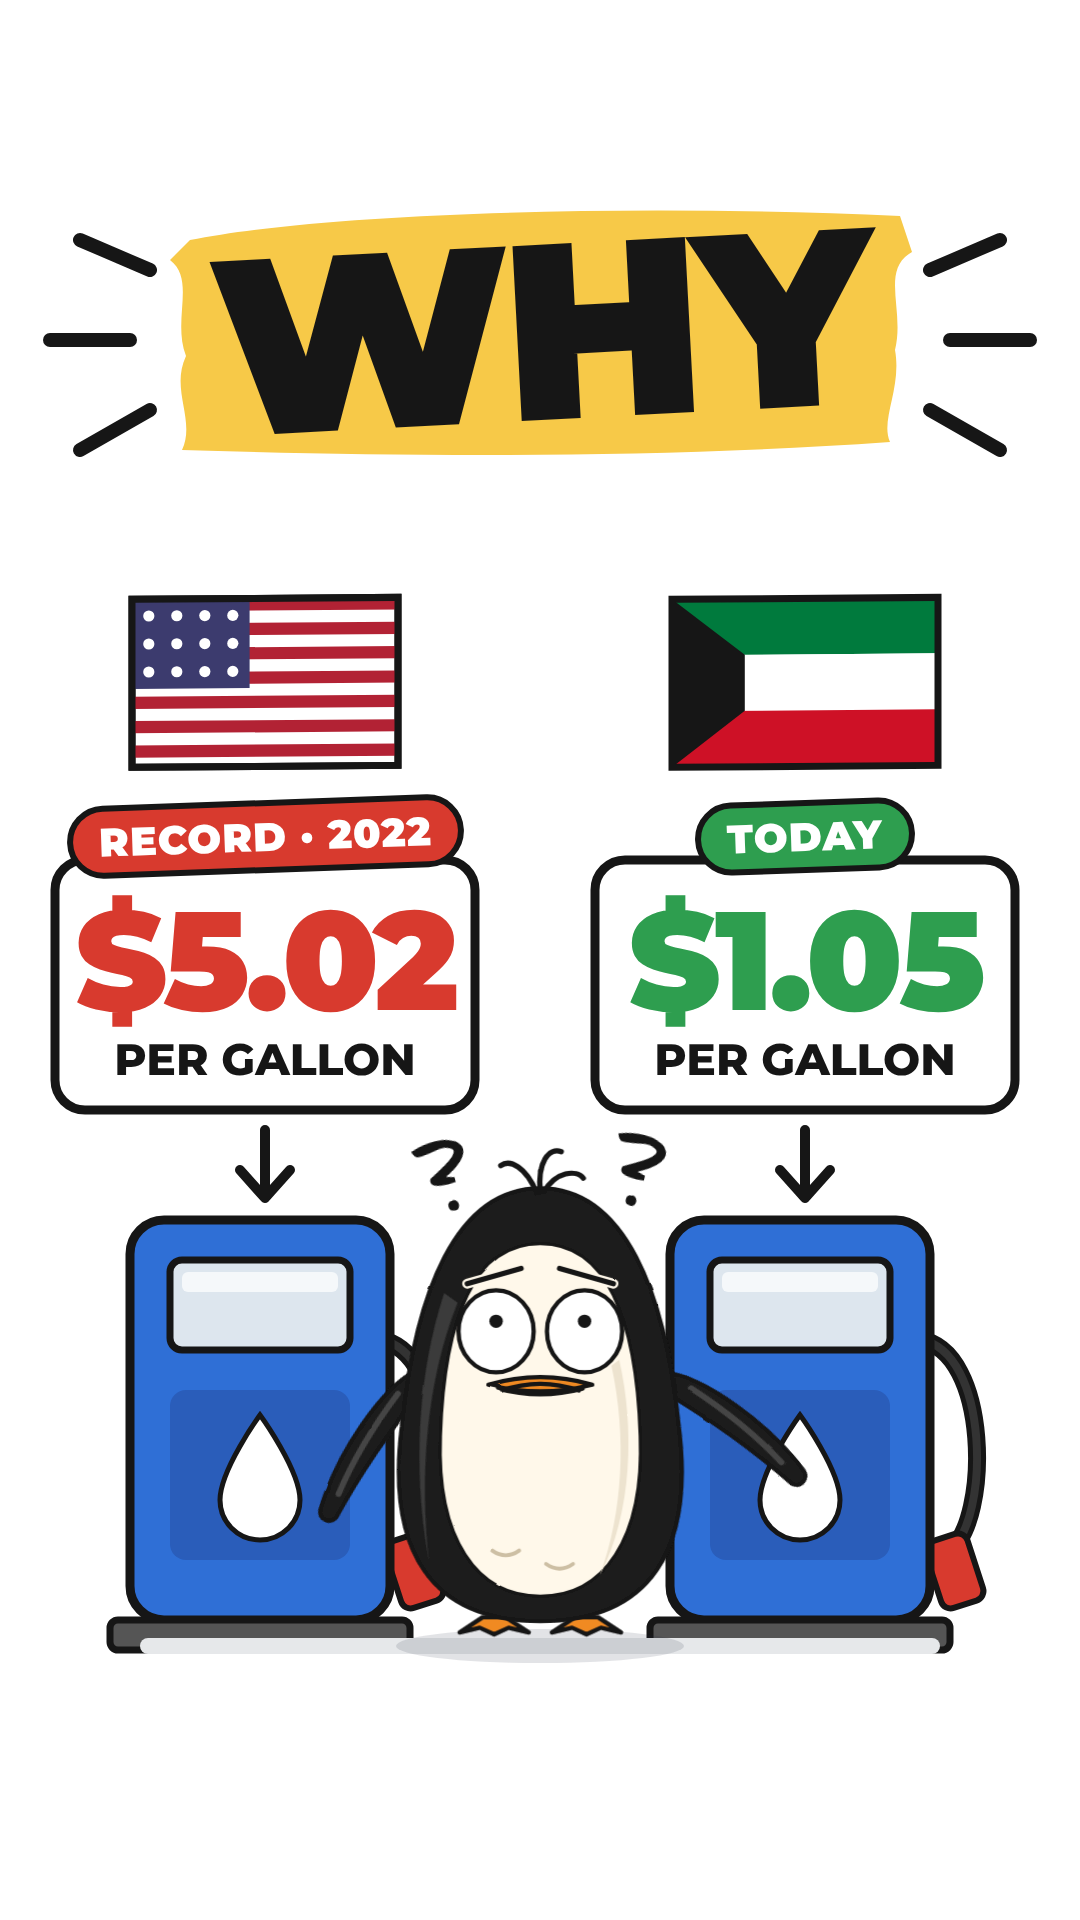
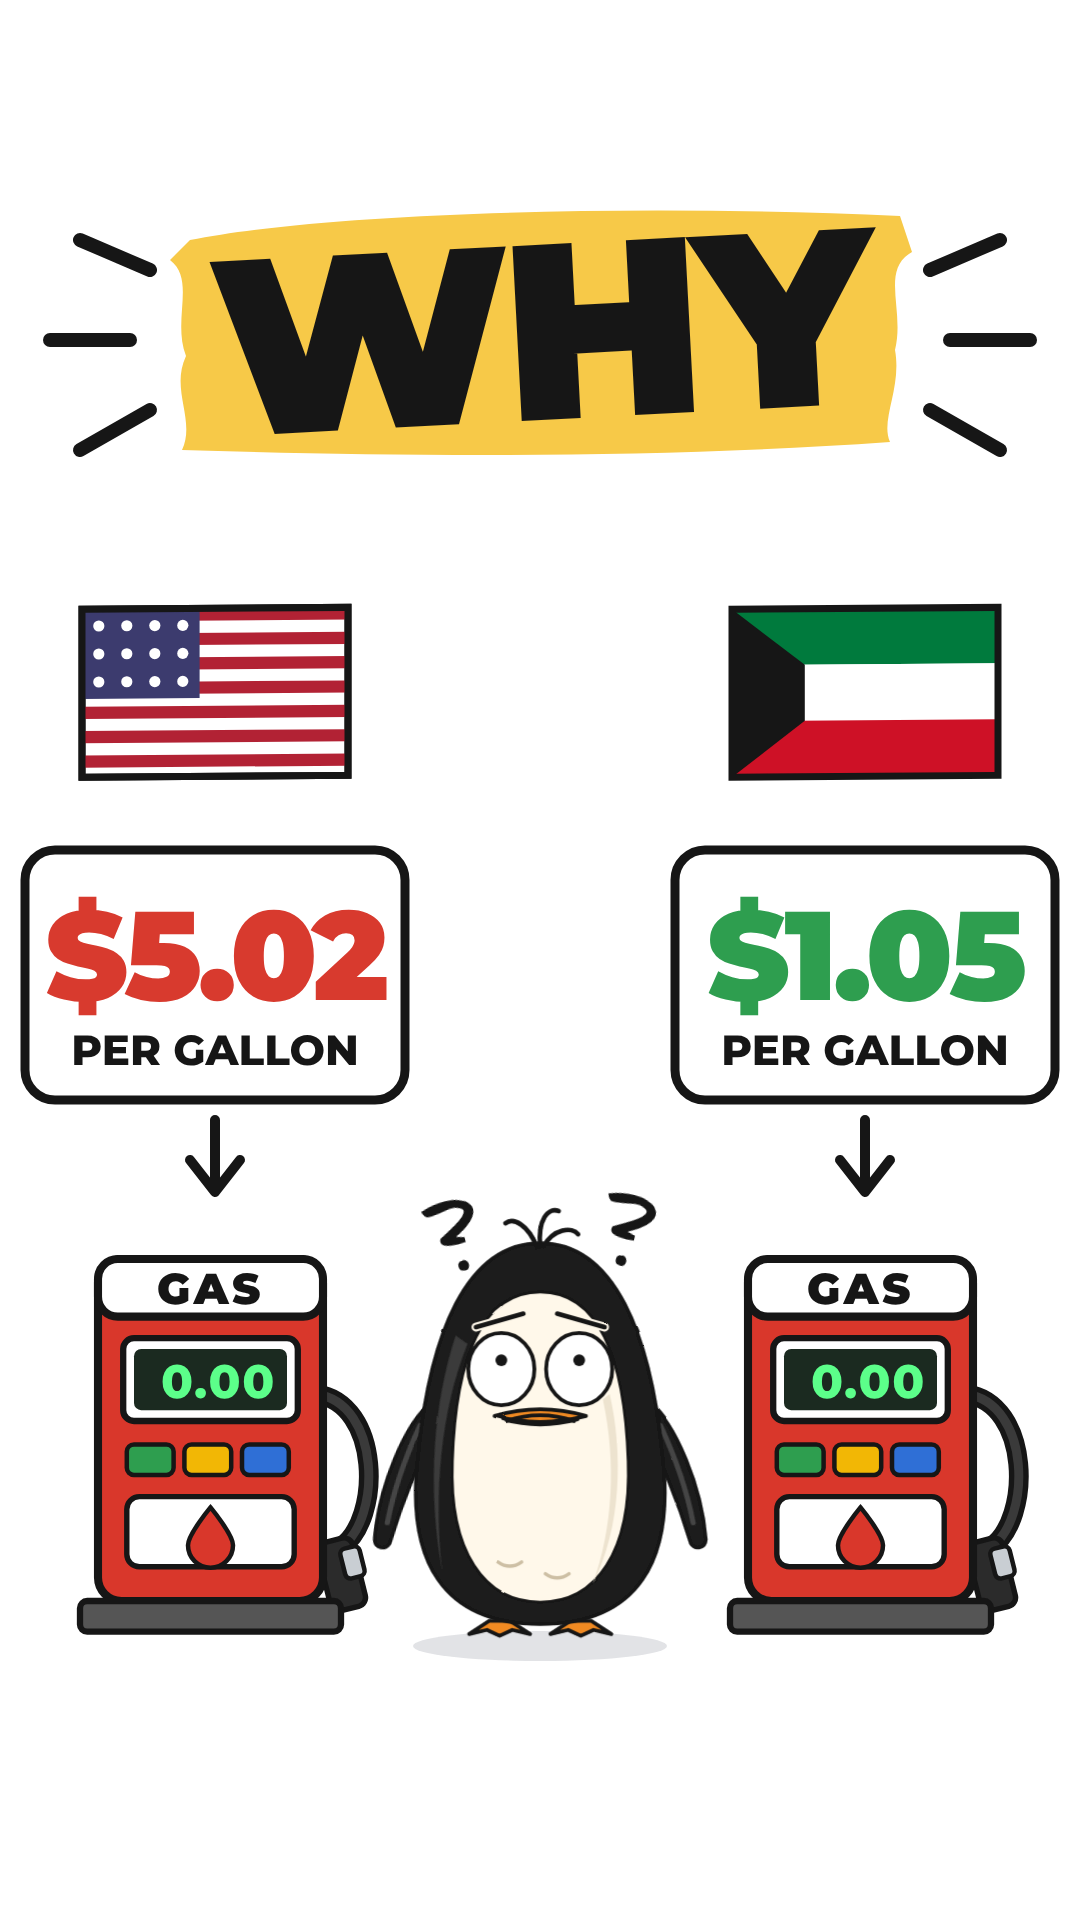
Kuwait hook: remove tags, real red gas pumps, penguin no longer overlaps pumps
Claude-Session: https://claude.ai/code/session_01C6F6q3tHjYPXSTm1dEDZh3

Changed region(s): [[0.0, 0.2812, 1.0, 0.875]]

diff --git a/studio/src/videos/dougKuwait.tsx b/studio/src/videos/dougKuwait.tsx
@@ -8,7 +8,7 @@ import {UsFlag} from './dougVenezuela';
 
 const cl = (v: number, a = 0, b = 1) => Math.max(a, Math.min(b, v));
 const ease = (p: number) => 1 - Math.pow(1 - cl(p), 3);
-const RED = '#D83A2E', GREEN = '#2E9E4F', PUMP = '#2F6FD6', YELLOW = '#F7C948';
+const RED = '#D83A2E', GREEN = '#2E9E4F', YELLOW = '#F7C948';
 const G = 1640;
 
 const KwFlag = () => <g>
@@ -28,35 +28,45 @@ const WhyBanner = ({t}: {t: number}) => {
   </svg>;
 };
 
-// One column: waving flag, small tag, big price board, down arrow, pump (same pump colour on both sides).
-const Side = ({x, flag, price, color, tag, tagColor, t, at}: {x: number; flag: 'us' | 'kw'; price: string; color: string; tag: string; tagColor: string; t: number; at: number}) => {
+// Classic gas pump (real colours: red body, white panel, black LCD, hose + nozzle). Same pump on both sides.
+const GasPump = ({x, bottom, s = 0.9}: {x: number; bottom: number; s?: number}) =>
+  <svg width={300} height={470} viewBox="0 0 300 470" style={{position: 'absolute', left: x - 150 * s, top: bottom - 470 * s, overflow: 'visible', transform: `scale(${s})`, transformOrigin: '0 0'}}>
+    {/* hose + nozzle on the outer side */}
+    <path d="M262 190 C 335 200, 335 330, 290 360" fill="none" stroke={INK} strokeWidth={22} strokeLinecap="round" />
+    <path d="M262 190 C 335 200, 335 330, 290 360" fill="none" stroke="#3A3A3A" strokeWidth={10} strokeLinecap="round" />
+    <g transform="rotate(-14 286 372)">
+      <rect x={266} y={352} width={40} height={78} rx={10} fill="#2B2B2B" stroke={INK} strokeWidth={6} />
+      <rect x={290} y={364} width={22} height={34} rx={6} fill="#C9CED3" stroke={INK} strokeWidth={5} />
+    </g>
+    {/* body */}
+    <rect x={20} y={40} width={250} height={380} rx={26} fill="#D9372B" stroke={INK} strokeWidth={9} />
+    <rect x={20} y={40} width={250} height={64} rx={22} fill="#fff" stroke={INK} strokeWidth={9} />
+    <text x={145} y={90} textAnchor="middle" fontFamily="Montserrat" fontWeight={900} fontSize={48} fill={INK} letterSpacing={4}>GAS</text>
+    {/* LCD */}
+    <rect x={48} y={128} width={194} height={92} rx={12} fill="#fff" stroke={INK} strokeWidth={7} />
+    <rect x={60} y={140} width={170} height={68} rx={8} fill="#1B2A20" />
+    <text x={218} y={194} textAnchor="end" fontFamily="Montserrat" fontWeight={800} fontSize={52} fill="#5CFF8A" letterSpacing={2}>0.00</text>
+    {/* grade buttons */}
+    {[0, 1, 2].map((i) => <rect key={i} x={52 + i * 64} y={246} width={52} height={34} rx={8} fill={['#2E9E4F', '#F2B705', '#2F6FD6'][i]} stroke={INK} strokeWidth={5} />)}
+    {/* nozzle holster + drop logo */}
+    <rect x={52} y={304} width={186} height={78} rx={14} fill="#fff" stroke={INK} strokeWidth={6} />
+    <path d="M145 316 C 145 316, 120 346, 120 358 A 25 25 0 0 0 170 358 C 170 346, 145 316, 145 316 Z" fill="#D9372B" stroke={INK} strokeWidth={5} />
+    {/* base */}
+    <rect x={0} y={420} width={290} height={34} rx={8} fill="#555" stroke={INK} strokeWidth={7} />
+  </svg>;
+
+// One column: waving flag, big price board, down arrow, pump.
+const Side = ({x, flag, price, color, t, at}: {x: number; flag: 'us' | 'kw'; price: string; color: string; t: number; at: number}) => {
   const p = ease((t - at) / 0.3), wave = Math.sin(t * 4) * 2.5;
   return <div style={{position: 'absolute', left: x - 230, top: 0, width: 460, height: 1920, opacity: p, transform: `translateY(${(1 - p) * 40}px)`}}>
     <svg width={460} height={1920} viewBox="0 0 460 1920" style={{position: 'absolute', left: 0, top: 0, overflow: 'visible'}}>
-      <g transform={`translate(${230 - 133} ${600 + wave}) scale(1.4) skewY(${wave * 0.6})`}>{flag === 'us' ? <UsFlag /> : <KwFlag />}</g>
-      {/* price board */}
-      <rect x={20} y={860} width={420} height={250} rx={30} fill="#fff" stroke={INK} strokeWidth={9} />
-      <text x={230} y={1010} textAnchor="middle" fontFamily="Montserrat" fontWeight={900} fontSize={140} fill={color} letterSpacing={-4}>{price}</text>
-      <text x={230} y={1075} textAnchor="middle" fontFamily="Montserrat" fontWeight={800} fontSize={44} fill={INK}>PER GALLON</text>
-      {/* down arrow */}
-      <path d="M230 1130 L230 1195 M205 1170 L230 1198 L255 1170" fill="none" stroke={INK} strokeWidth={10} strokeLinecap="round" strokeLinejoin="round" />
-      {/* pump */}
-      <g transform="translate(95 1220)">
-        <path d="M250 120 C 320 130, 320 300, 280 330" fill="none" stroke={INK} strokeWidth={18} strokeLinecap="round" />
-        <path d="M250 120 C 320 130, 320 300, 280 330" fill="none" stroke="#333" strokeWidth={8} strokeLinecap="round" />
-        <rect x={262} y={316} width={44} height={70} rx={10} fill={RED} stroke={INK} strokeWidth={6} transform="rotate(-18 284 350)" />
-        <rect x={0} y={0} width={260} height={400} rx={34} fill={PUMP} stroke={INK} strokeWidth={9} />
-        <rect x={40} y={40} width={180} height={90} rx={12} fill="#DDE6EE" stroke={INK} strokeWidth={7} />
-        <rect x={52} y={52} width={156} height={20} rx={6} fill="#fff" opacity={0.7} />
-        <rect x={40} y={170} width={180} height={170} rx={16} fill="#2A5DBA" />
-        <path d="M130 195 C 130 195, 90 250, 90 280 A 40 40 0 0 0 170 280 C 170 250, 130 195, 130 195 Z" fill="#fff" stroke={INK} strokeWidth={5} />
-        <rect x={-20} y={400} width={300} height={30} rx={8} fill="#555" stroke={INK} strokeWidth={7} />
-      </g>
+      <g transform={`translate(${230 - 133} ${610 + wave}) scale(1.4) skewY(${wave * 0.6})`}>{flag === 'us' ? <UsFlag /> : <KwFlag />}</g>
+      <rect x={40} y={850} width={380} height={250} rx={30} fill="#fff" stroke={INK} strokeWidth={9} />
+      <text x={230} y={1000} textAnchor="middle" fontFamily="Montserrat" fontWeight={900} fontSize={126} fill={color} letterSpacing={-4}>{price}</text>
+      <text x={230} y={1065} textAnchor="middle" fontFamily="Montserrat" fontWeight={800} fontSize={42} fill={INK}>PER GALLON</text>
+      <path d="M230 1120 L230 1190 M205 1160 L230 1192 L255 1160" fill="none" stroke={INK} strokeWidth={10} strokeLinecap="round" strokeLinejoin="round" />
     </svg>
-    {/* tag above the board: RECORD vs TODAY (keeps the $5.02 honest) */}
-    <div style={{position: 'absolute', left: 0, right: 0, top: 800, display: 'flex', justifyContent: 'center'}}>
-      <div style={{background: tagColor, color: '#fff', border: `6px solid ${INK}`, borderRadius: 40, padding: '6px 26px', fontFamily: 'Montserrat', fontWeight: 900, fontSize: 40, letterSpacing: 1, transform: 'rotate(-2deg)'}}>{tag}</div>
-    </div>
+    <GasPump x={230} bottom={G + 6} />
   </div>;
 };
 
@@ -65,12 +75,11 @@ const Q = ({x, y, t, r}: {x: number; y: number; t: number; r: number}) =>
 
 export const KuwaitHook = ({t}: {t: number}) => <>
   <WhyBanner t={t} />
-  <Side x={265} flag="us" price="$5.02" color={RED} tag="RECORD · 2022" tagColor={RED} t={t} at={0.15} />
-  <Side x={805} flag="kw" price="$1.05" color={GREEN} tag="TODAY" tagColor={GREEN} t={t} at={0.45} />
-  <div style={{position: 'absolute', left: 140, right: 140, top: G - 2, height: 16, borderRadius: 8, background: '#E6E8EA'}} />
-  <Penguin id="doug" x={540} y={G + 6} h={500} pose={{look: [0, -0.6], brows: 'worried', eyeScale: 1.15, beak: 'frown', flapR: 40, flapL: 20}} />
-  <Q x={420} y={1110} t={t} r={-1} />
-  <Q x={610} y={1100} t={t} r={1} />
+  <Side x={215} flag="us" price="$5.02" color={RED} t={t} at={0.15} />
+  <Side x={865} flag="kw" price="$1.05" color={GREEN} t={t} at={0.45} />
+    <Penguin id="doug" x={540} y={G + 6} h={440} pose={{look: [0, -0.6], brows: 'worried', eyeScale: 1.15, beak: 'frown', flapR: 8, flapL: 8}} />
+  <Q x={430} y={1170} t={t} r={-1} />
+  <Q x={600} y={1160} t={t} r={1} />
 </>;
 
 export const DougKuwaitHook = () => {
